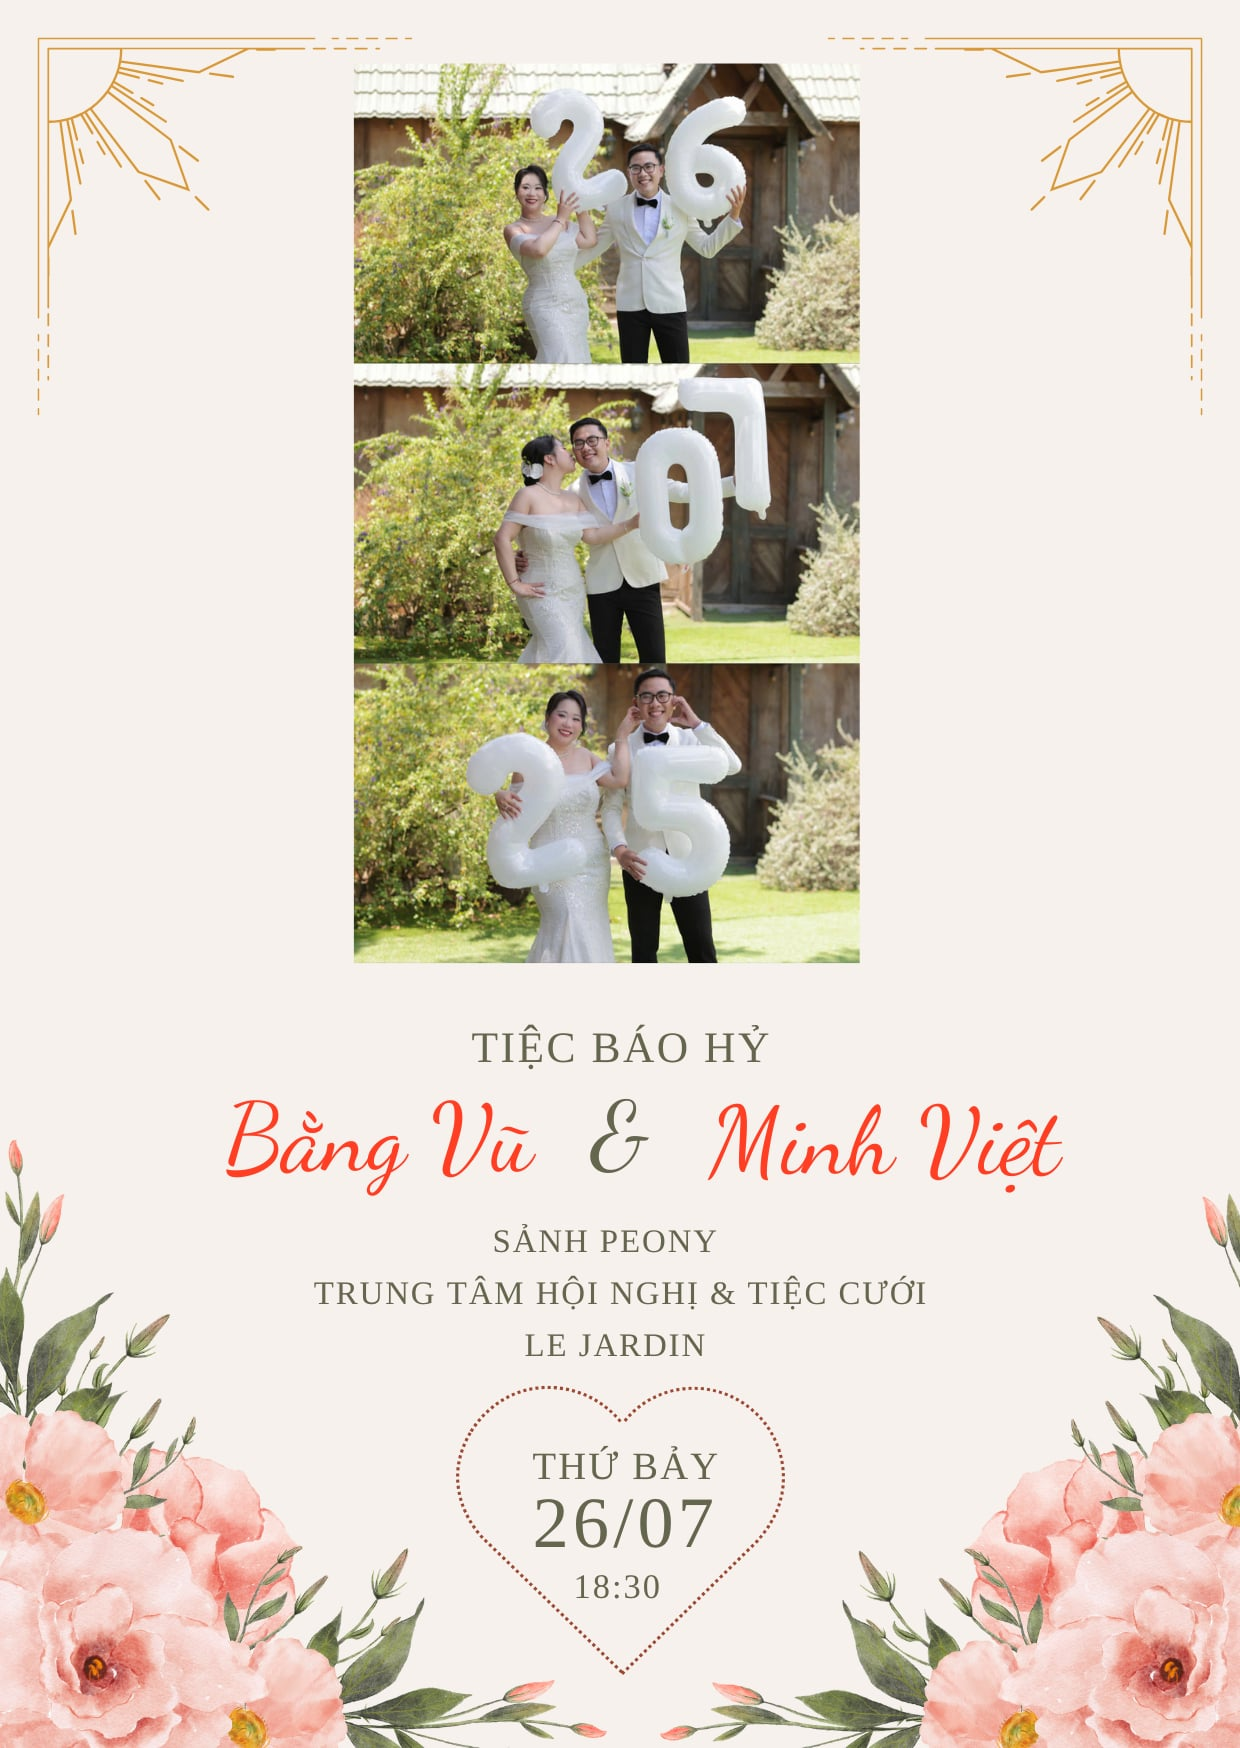
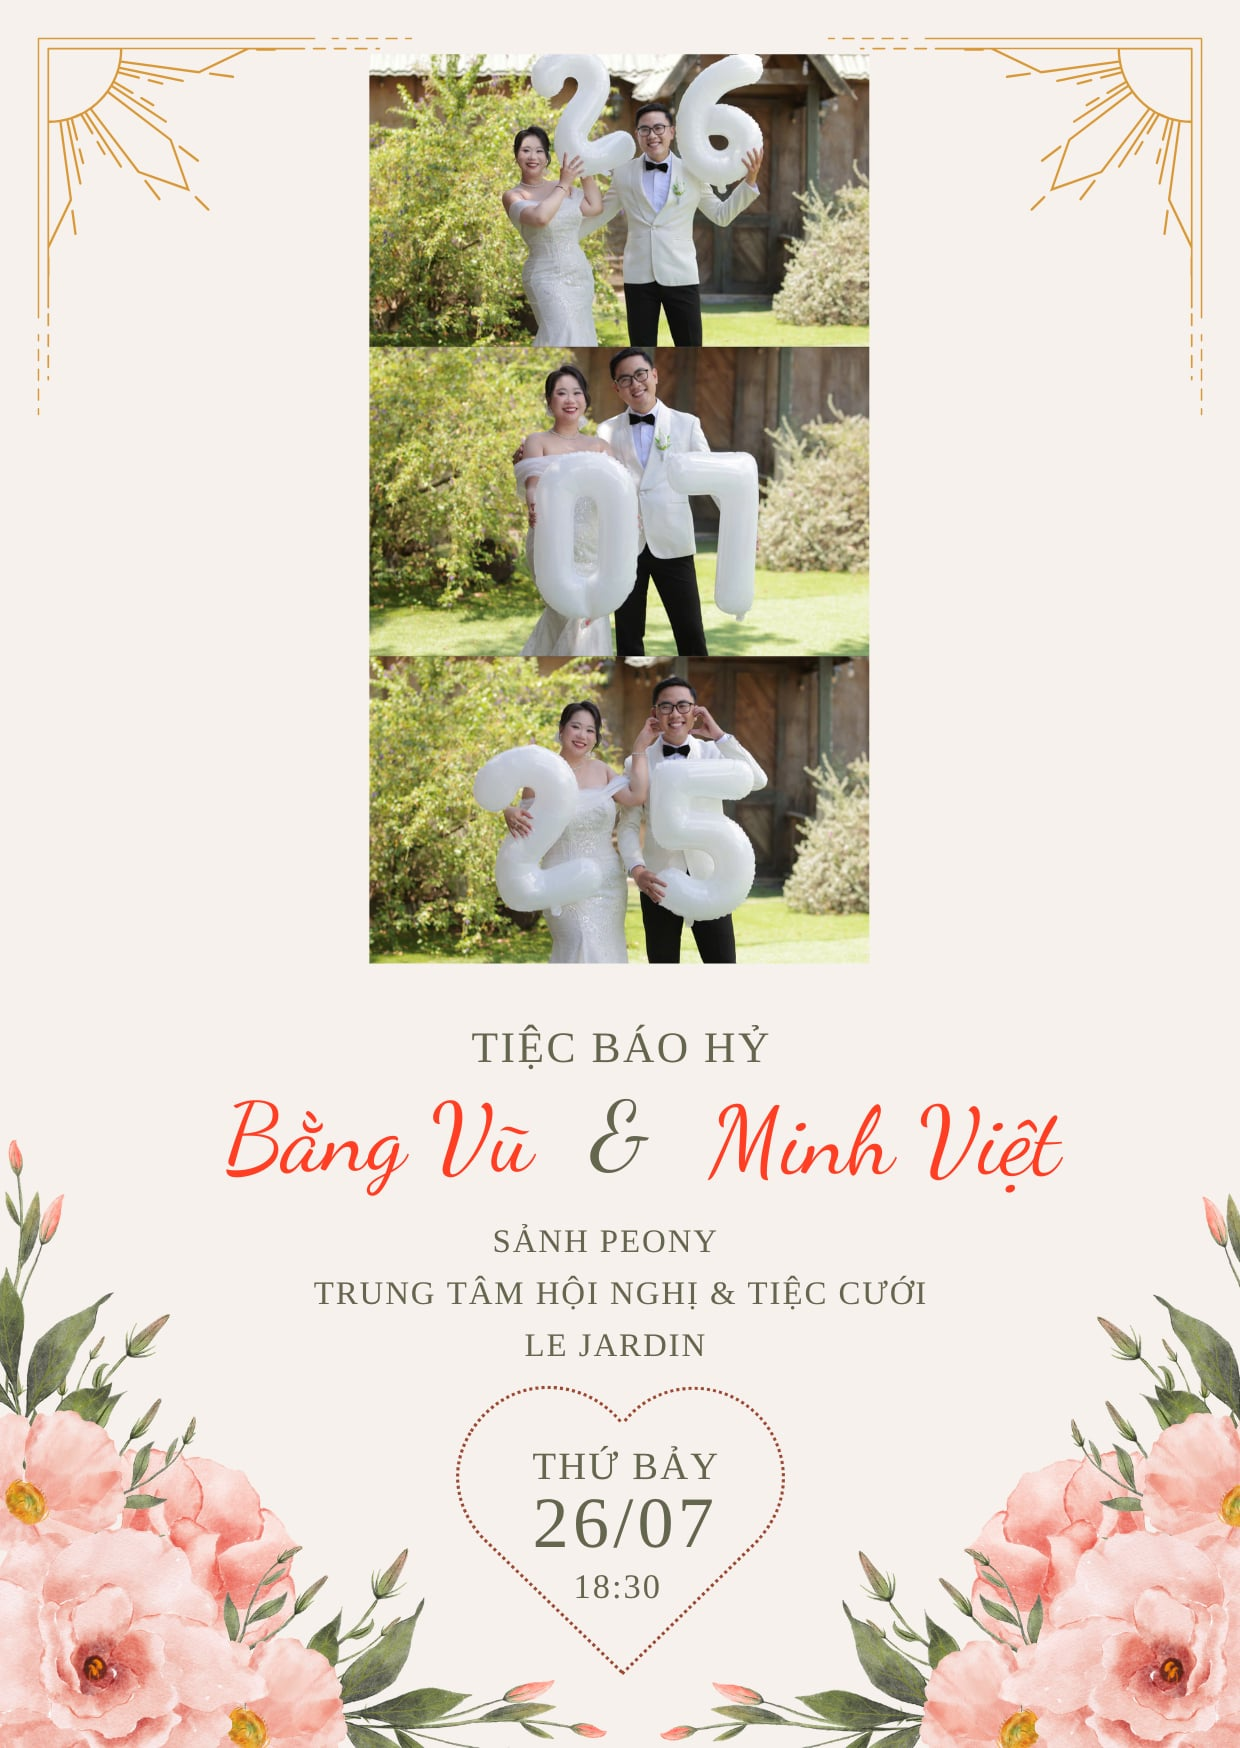
Update image and css

Changed region(s): [[0.2758, 0.0309, 0.7048, 0.5561]]

diff --git a/index.html b/index.html
@@ -184,7 +184,7 @@
 			<div class="row">
 				<div class="col-lg-4 d-flex justify-content-center align-items-center wow fadeInUp" data-wow-delay="0.3s">
 					<div class="d-flex justify-content-center">
-						<img src="images/nha_trai.png" class="img-fluid rounded mb-3 mb-sm-0" style="max-width: 350px; height: auto;" alt="nha_gai">
+						<img src="images/nha_gai.png" class="img-fluid rounded mb-3 mb-sm-0" style="max-width: 350px; height: auto;" alt="nha_gai">
 					</div>
 				</div>
 				<div class="col-lg-4 d-flex justify-content-center align-items-center wow fadeInUp" data-wow-delay="0.3s">
@@ -194,7 +194,7 @@
 				</div>
 				<div class="col-lg-4 d-flex justify-content-center align-items-center wow fadeInUp" data-wow-delay="0.3s">
 					<div class="d-flex justify-content-center">
-						<img src="images/nha_gai.png" class="img-fluid rounded mb-3 mb-sm-0" style="max-width: 350px; height: auto;" alt="nha_trai">
+						<img src="images/nha_trai.png" class="img-fluid rounded mb-3 mb-sm-0" style="max-width: 350px; height: auto;" alt="nha_trai">
 					</div>
 				</div>
 			</div>
@@ -336,9 +336,9 @@
 								</div>
 								<div class="wishes-input-group">
 									<select class="wishes-select" name="entry.1817587414" id="guestRelation">
-										<option value="">Bạn cô dâu</option>
-										<option value="Bạn chú rể">Bạn chú rể</option>
 										<option value="Bạn cô dâu">Bạn cô dâu</option>
+										<option value="Bạn chú rể">Bạn chú rể</option>
+										<option value="Khách mời của ba mẹ">Khách mời của ba mẹ</option>
 										<option value="Bạn chung">Bạn chung</option>
 										<option value="Đồng nghiệp">Đồng nghiệp</option>
 										<option value="Người thân">Người thân</option>
@@ -363,7 +363,7 @@
 							<div class="wishes-preset-container">
 								<select class="wishes-preset-select" id="presetWish" onchange="selectPresetWish()">
 									<option value="">Nhập lời chúc có sẵn</option>
-									<option value="Chúc hai bạn trăm năm hạnh phúc, bạch đầu giai lão! ❤">Chúc hai bạn trăm năm hạnh phúc, bạch đầu giai lão! ❤</option>
+									<option value="Chúc hai bạn trăm năm hạnh phúc, bách niên giai lão! ❤">Chúc hai bạn trăm năm hạnh phúc, bách niên giai lão! ❤</option>
 									<option value="Chúc mừng đám cưới! Mong hai bạn luôn yêu thương và hiểu nhau! 💕">Chúc mừng đám cưới! Mong hai bạn luôn yêu thương và hiểu nhau! 💕</option>
 									<option value="Chúc hai bạn có một cuộc sống hôn nhân thật hạnh phúc và viên mãn! 🎉">Chúc hai bạn có một cuộc sống hôn nhân thật hạnh phúc và viên mãn! 🎉</option>
 									<option value="Mong rằng tình yêu của hai bạn sẽ ngày càng bền chặt và lâu dài! 💒">Mong rằng tình yêu của hai bạn sẽ ngày càng bền chặt và lâu dài! 💒</option>
@@ -387,7 +387,7 @@
 		<div class="container">
 			<div class="row">
 				<div class="col-md-12 text-center">
-					<div class="thank-you-content animate-box" data-animate-effect="fadeIn">
+					<div class="thank-you-content animate-box" data-animate-effect="fadeIn" style="margin-top: 120px;">
 						<h1 class="thank-you-title">Thank you!</h1>
 						<h2 class="thank-you-names">Bằng Vũ & Minh Việt</h2>
 					</div>
@@ -878,7 +878,7 @@ function submitWishes(event) {
         // Reset form after 3 seconds
         setTimeout(function() {
             button.textContent = originalText;
-            button.style.background = 'linear-gradient(135deg, #9b7a9b, #8a6b8a)';
+            button.style.background = '';
             button.disabled = false;
             
             // Reset form

diff --git a/css/style.css b/css/style.css
@@ -2710,7 +2710,7 @@ html {
 .wishes-submit-btn {
     width: 100%;
     padding: 18px 30px;
-    background: linear-gradient(135deg, #9b7a9b, #8a6b8a);
+    background: rgba(255, 200, 200, 0.7);
     color: white;
     border: none;
     border-radius: 25px;
@@ -2722,7 +2722,7 @@ html {
 }
 
 .wishes-submit-btn:hover {
-    background: linear-gradient(135deg, #8a6b8a, #7a5a7a);
+    background: rgba(255, 200, 200, 1);
     transform: translateY(-2px);
     box-shadow: 0 8px 25px rgba(0,0,0,0.3);
 }
@@ -2800,7 +2800,7 @@ html {
     }
     
     .wishes-subtitle {
-        font-size: 14px;
+        font-size: 15.1px;
     }
     
     .wishes-form-container {
@@ -2956,70 +2956,68 @@ html {
 /* Mobile-specific Gift Modal styles */
 @media screen and (max-width: 480px) {
     /* Make modal content smaller and better adapted for mobile */
-    .gift-modal-content
-
-{
-    width: 95%;
-    max-width: 95%;
-    margin: 10% auto;
-    padding: 15px;
-    border-radius: 10px;
-}
-
-/* Reduce title size */
-.gift-modal-title {
-    font-size: 2em;
-    margin-bottom: 10px;
-    margin-top: 10px;
-}
-
-/* Reduce subtitle size */
-.gift-modal-subtitle {
-    font-size: 14px;
-    margin-bottom: 20px;
-}
-
-/* Stack banking cards vertically */
-.gift-banking-section {
-    flex-direction: column;
-    gap: 15px;
-}
-
-/* Make banking cards more compact */
-.banking-card {
-    padding: 15px;
-    min-width: auto;
-}
-
-    /* Reduce heading size in banking cards */
-    .banking-card h3 {
-        font-size: 15px;
-        margin-bottom: 15px;
+    .gift-modal-content {
+        width: 95%;
+        max-width: 95%;
+        margin: 10% auto;
+        padding: 15px;
+        border-radius: 10px;
     }
 
-/* Make QR codes smaller */
-.qr-banking img {
-    max-width: 130px;
-    max-height: 130px;
-}
+    /* Reduce title size */
+    .gift-modal-title {
+        font-size: 2em;
+        margin-bottom: 10px;
+        margin-top: 10px;
+    }
 
-/* Adjust buttons layout for smaller screens */
-.banking-buttons {
-    gap: 8px;
-}
+    /* Reduce subtitle size */
+    .gift-modal-subtitle {
+        font-size: 14px;
+        margin-bottom: 20px;
+    }
 
-/* Make buttons smaller */
-.btn-download-qr, .btn-copy-stk {
-    padding: 10px 15px;
-    font-size: 13px;
-}
+    /* Stack banking cards vertically */
+    .gift-banking-section {
+        flex-direction: column;
+        gap: 15px;
+    }
 
-/* Adjust close button position */
-.gift-close {
-    right: 15px;
-    top: 10px;
-    font-size: 28px;
-}
+    /* Make banking cards more compact */
+    .banking-card {
+        padding: 15px;
+        min-width: auto;
+    }
+
+        /* Reduce heading size in banking cards */
+        .banking-card h3 {
+            font-size: 15px;
+            margin-bottom: 15px;
+        }
+
+    /* Make QR codes smaller */
+    .qr-banking img {
+        max-width: 130px;
+        max-height: 130px;
+    }
+
+    /* Adjust buttons layout for smaller screens */
+    .banking-buttons {
+        gap: 8px;
+    }
+
+    /* Make buttons smaller */
+    .btn-download-qr, .btn-copy-stk {
+        padding: 10px 15px;
+        font-size: 13px;
+    }
+
+    /* Adjust close button position */
+    .gift-close {
+        right: 15px;
+        top: 10px;
+        font-size: 28px;
+    }
 
 }
 
@@ -3053,4 +3051,13 @@ html {
 
 .fh5co-heading h3{
     font-size: 1.3em;
+}
+
+/* ---------------------- Custom adjustments ---------------------- */
+.fh5co-thank-you-section {
+    align-items: flex-end;
+}
+
+.thank-you-content {
+    margin-bottom: 60px; /* spacing from bottom */
 }
